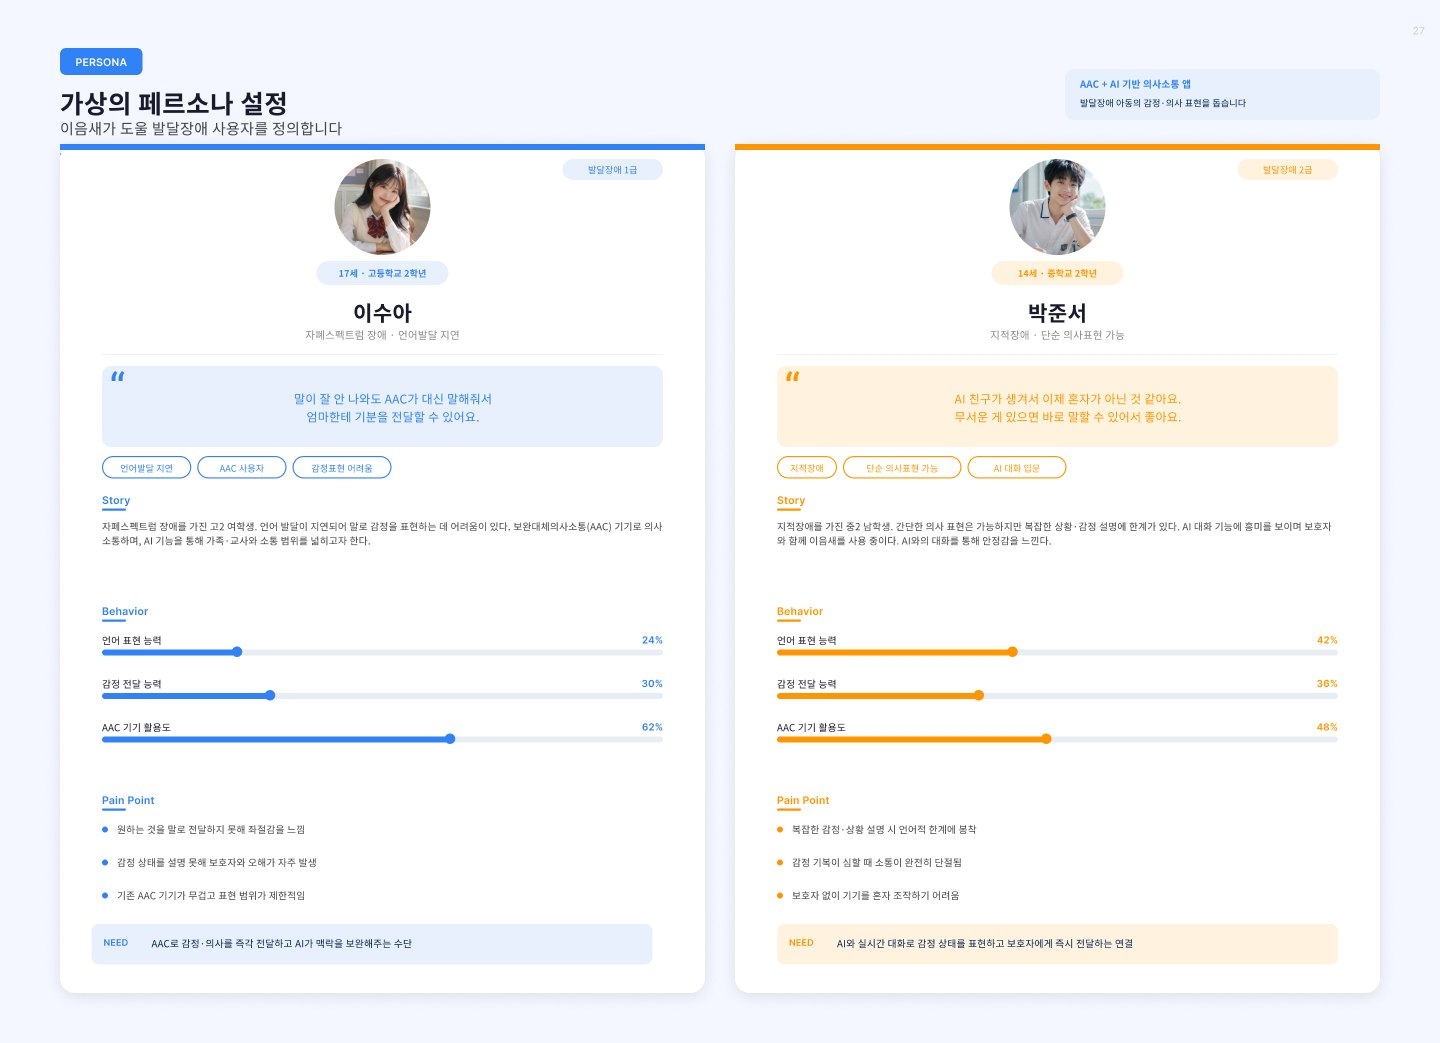
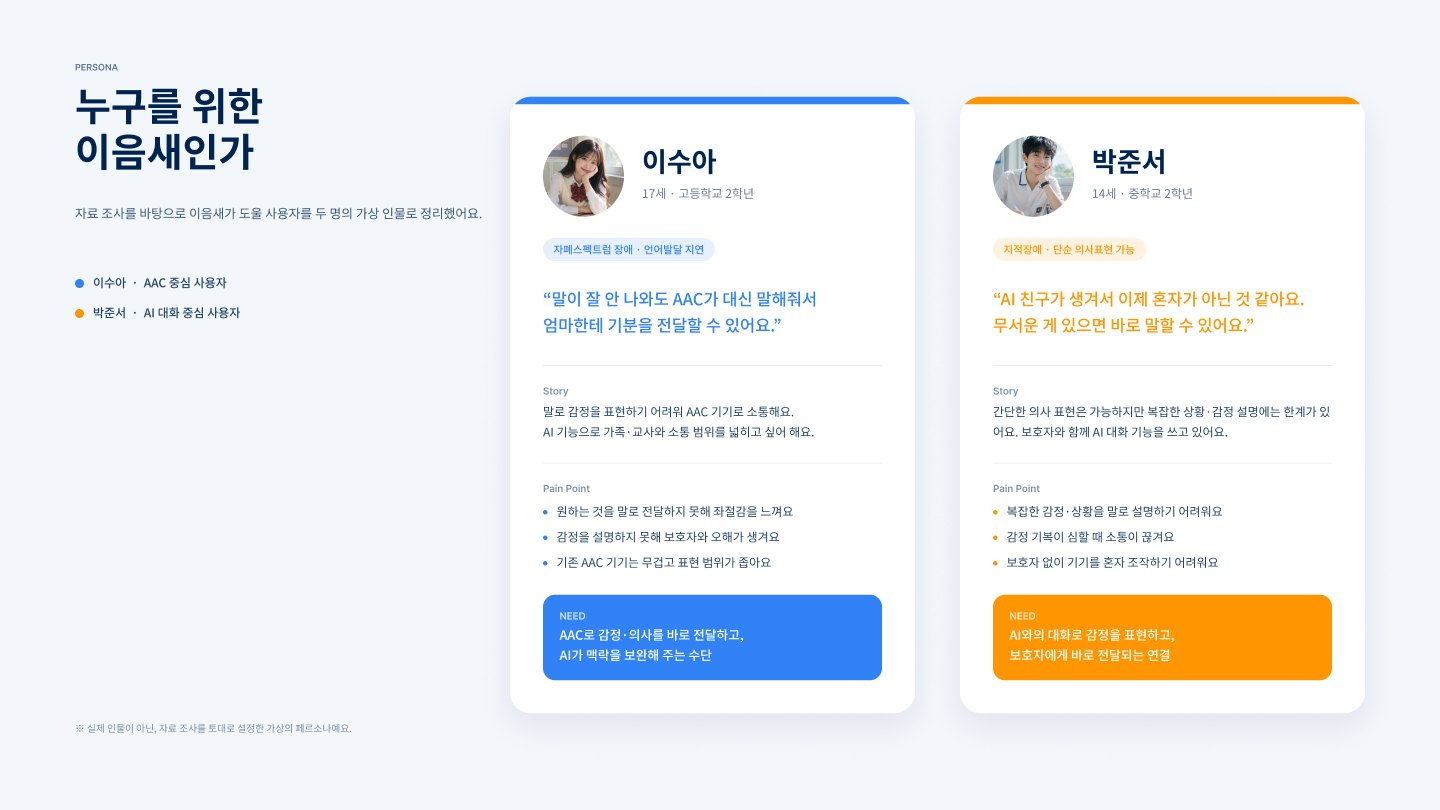
Add Room 05 Ieumsae (14 pages, docent, drawer); new persona page; fix hidden link pills and single-image viewer
Claude-Session: https://claude.ai/code/session_01TWFMVD9D95cvRxEEK3SmBD

diff --git a/js/data.js b/js/data.js
@@ -711,5 +711,178 @@ window.ROOMS = [
    ]
   ],
   "link": "https://grab-myrtle-14094177.figma.site/"
+ },
+ {
+  "no": "05",
+  "shape": "ring",
+  "en": "Ieumsae",
+  "ko": "AI 기반 AAC · 커뮤니티 플랫폼 「이음새」",
+  "type": "Team project · 2026",
+  "paper": "#EEF3FB",
+  "ink": "#111111",
+  "accent": "#3182F6",
+  "dark": false,
+  "docent": {
+   "1": [
+    "Ieumsae\nAI-AAC Platform",
+    "발달장애 아동이 스스로 감정과 의사를 표현할 수 있도록, AI 기반 AAC 카드와 24시간 챗봇, 커뮤니티를 하나의 앱에 담았어요."
+   ],
+   "2": [
+    "소통의 공간은 어디에 있을까",
+    "기존 AAC 도구는 비싸거나 다루기 어렵고, 보호자와 교사만 쓰는 일방향 구조였어요. 아이가 스스로 표현하고 소통할 수 있는 디지털 공간을 질문으로 삼았습니다."
+   ],
+   "3": [
+    "누구를 위한 이음새인가",
+    "자료 조사를 바탕으로 두 명의 가상 인물을 세웠어요. AAC로 마음을 전하고 싶은 이수아, AI와의 대화로 감정을 표현하고 싶은 박준서입니다."
+   ],
+   "4": [
+    "가입부터 인증까지",
+    "가입한 뒤 역할을 고르고 증명서로 인증해요. 확인된 사람들끼리 안심하고 소통할 수 있도록, 사용 전에 인증을 마치는 흐름으로 설계했어요."
+   ],
+   "5": [
+    "처음 써도 따라올 수 있도록",
+    "AAC 카드로 문장을 만들어 전달하는 방법부터 피드와 커뮤니티까지, 주요 기능을 여섯 단계로 먼저 보여줘요."
+   ],
+   "6": [
+    "AI-AAC, 의사소통의 다리",
+    "카테고리별 카드를 빠르게 찾고, 고른 카드로 문장을 만들어요. 소리 크기와 심볼 이미지도 사용자에게 맞게 바꿀 수 있어요."
+   ],
+   "7": [
+    "소통하는 채팅, 이음",
+    "일반 대화와 장터나라 거래 대화를 나눠 보여줘서, 필요한 대화를 바로 찾을 수 있어요."
+   ],
+   "8": [
+    "24시간 곁에 있는 AI",
+    "언제든 말을 걸 수 있는 챗봇이 일자리 같은 정보를 추천하고, 대화 속에서 필요한 정보를 함께 나눠요."
+   ],
+   "9": [
+    "이야기방, 소셜 커뮤니티",
+    "피드에서 일상을 나누고, 정보나라에서는 질문과 공유를 나눠 볼 수 있어요."
+   ],
+   "10": [
+    "나눔이 모이는 장터나라",
+    "팔아요 · 구해요 · 나눔해요로 나눈 장터에서 필요한 물건을 주고받아요."
+   ],
+   "11": [
+    "보호자와 함께 보는 하루",
+    "보호자 모드에서 돌보는 사람을 고르고, 일정과 AI 케어 리포트로 하루와 의사소통의 변화를 함께 확인해요."
+   ],
+   "12": [
+    "밖에서도 손안에서 확인",
+    "마이페이지에서 보호자 패널을 켜면, 모바일에서도 오늘의 한마디와 활동 지수 · 일정 · AI 리포트를 볼 수 있어요. 공개하지 않는 정보는 자물쇠로 표시해요."
+   ],
+   "13": [
+    "더 쉽게, 더 가깝게",
+    "모바일의 챗봇과 커뮤니티 흐름을 PC에서도 이어 쓸 수 있도록, 일자리 · 복지시설 · 커뮤니티를 한 화면에 모은 웹을 설계했어요."
+   ],
+   "14": [
+    "함께 만든 이음새",
+    "개발자, 사회봉사자와 함께한 팀 프로젝트예요. 저는 UX/UI 디자이너로 UX/UI 디자인과 리서치, 와이어프레임 구성을 맡았어요."
+   ]
+  },
+  "pages": [
+   {
+    "t": "Cover",
+    "src": "assets/works/05/01.jpg",
+    "r": 0.5625
+   },
+   {
+    "t": "Background",
+    "src": "assets/works/05/02.jpg",
+    "r": 0.5625
+   },
+   {
+    "t": "Persona",
+    "src": "assets/works/05/03.jpg",
+    "r": 0.5625
+   },
+   {
+    "t": "Sign-up & Verification",
+    "src": "assets/works/05/04.jpg",
+    "r": 0.625
+   },
+   {
+    "t": "Tutorial",
+    "src": "assets/works/05/05.jpg",
+    "r": 0.5833
+   },
+   {
+    "t": "AI-AAC",
+    "src": "assets/works/05/06.jpg",
+    "r": 0.5625
+   },
+   {
+    "t": "Chat",
+    "src": "assets/works/05/07.jpg",
+    "r": 0.5625
+   },
+   {
+    "t": "AI Chatbot",
+    "src": "assets/works/05/08.jpg",
+    "r": 0.5625
+   },
+   {
+    "t": "Community",
+    "src": "assets/works/05/09.jpg",
+    "r": 0.5625
+   },
+   {
+    "t": "Marketplace",
+    "src": "assets/works/05/10.jpg",
+    "r": 0.5625
+   },
+   {
+    "t": "Guardian Panel",
+    "src": "assets/works/05/11.jpg",
+    "r": 0.5625
+   },
+   {
+    "t": "Guardian Mobile",
+    "src": "assets/works/05/12.jpg",
+    "r": 0.4424
+   },
+   {
+    "t": "Web",
+    "src": "assets/works/05/13.jpg",
+    "r": 0.7292
+   },
+   {
+    "t": "Role & Result",
+    "src": "assets/works/05/14.jpg",
+    "r": 0.5625
+   }
+  ],
+  "parts": [
+   [
+    "Intro",
+    1,
+    3
+   ],
+   [
+    "Onboarding",
+    4,
+    5
+   ],
+   [
+    "Features",
+    6,
+    10
+   ],
+   [
+    "Guardian",
+    11,
+    12
+   ],
+   [
+    "Web",
+    13,
+    13
+   ],
+   [
+    "Outro",
+    14,
+    14
+   ]
+  ]
  }
 ];

diff --git a/js/others.js b/js/others.js
@@ -79,7 +79,7 @@ window.IMG_R = {"assets/others/graphic/01.jpg": 1.4111, "assets/others/graphic/b
 
   // viewer
   const V = $('viewer'), stage = $('vStage'), dots = $('vDots'), vinfo = $('vInfo'); let wi = 0, si = 0;
-  function slides(w) { const S = []; if (hasImg(w)) w.images.forEach(s => S.push({ img: s })); if (w.video) S.push({ video: w.video }); else if (!w.video) for (let k = 0; k < (w.n || 1); k++) S.push({ ph: true }); return S; }
+  function slides(w) { const S = []; if (hasImg(w)) w.images.forEach(s => S.push({ img: s })); if (w.video) S.push({ video: w.video }); else if (!S.length) for (let k = 0; k < (w.n || 1); k++) S.push({ ph: true }); return S; }
   function open(i) { wi = i; si = 0; V.hidden = false; requestAnimationFrame(() => V.classList.add('show')); document.body.style.overflow = 'hidden'; render(); }
   function close() { V.classList.remove('show'); document.body.style.overflow = ''; setTimeout(() => { V.hidden = true; stage.innerHTML = ''; }, 450); }
   function embed(u) { const y = ytId(u); if (y) return `<iframe class="${/shorts/.test(u) ? 'tall' : ''}" src="https://www.youtube.com/embed/${y}?autoplay=1&rel=0&playsinline=1" allow="autoplay; fullscreen; encrypted-media" allowfullscreen></iframe>`;

diff --git a/js/lobby.js b/js/lobby.js
@@ -22,9 +22,9 @@
     store.set('seen', '1');
   } else { setTimeout(open, 60); }
 
-  // 2 · cabinet: 6 × 4 drawers, four of them hold work
+  // 2 · cabinet: 6 × 4 drawers, five of them hold work
   const cab = document.getElementById('cabinet');
-  const live = { 0: 0, 1: 1, 2: 2, 3: 3 };
+  const live = { 0: 0, 1: 1, 2: 2, 3: 3, 4: 4 };
   // 6 × 4: no shape twice in a row, none repeated straight down a column (same grid as Figma)
   const GRID = [['square','circle','triangle','pentagon','ring','hexagon'],['ring','diamond','circle','star','hexagon','square'],['hexagon','square','diamond','ring','pentagon','star'],['star','ring','hexagon','square','triangle','diamond']].flat();
   for (let i = 0; i < 24; i++) {

diff --git a/css/style.css b/css/style.css
@@ -475,3 +475,4 @@ img{display:block;max-width:100%}
 .g-item.playing .g-vid{opacity:1}
 @media (max-width:900px){.gallery{--col:calc((100vw - 2*var(--gutter) - 10px)/2)}}
 @media (hover:none){.g-item.has-prev>img{opacity:1}.g-prev,.g-item.has-prev .g-prev{display:none}.g-item>img,.g-item>.ph{filter:none}}
+.pill[hidden]{display:none!important}
